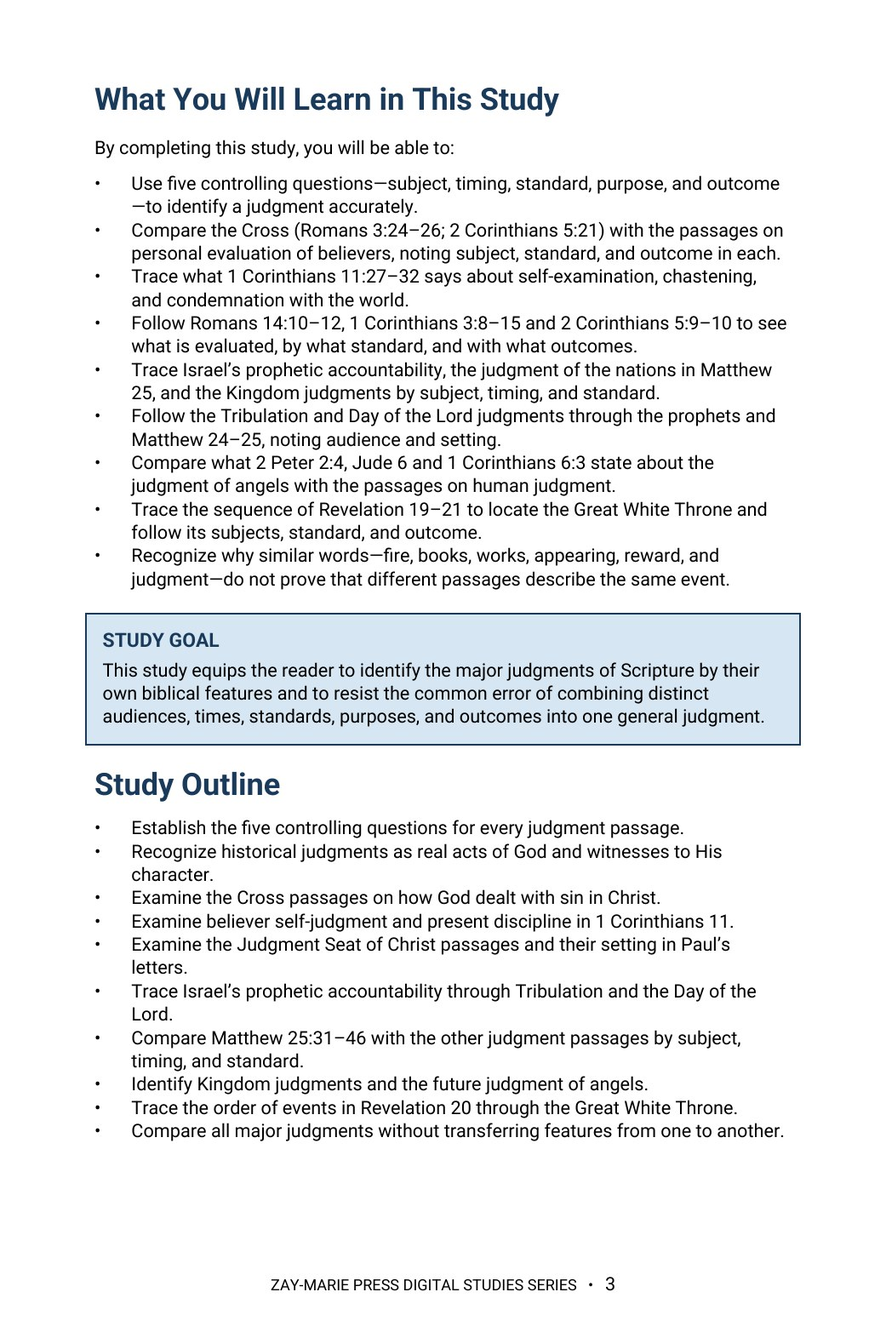
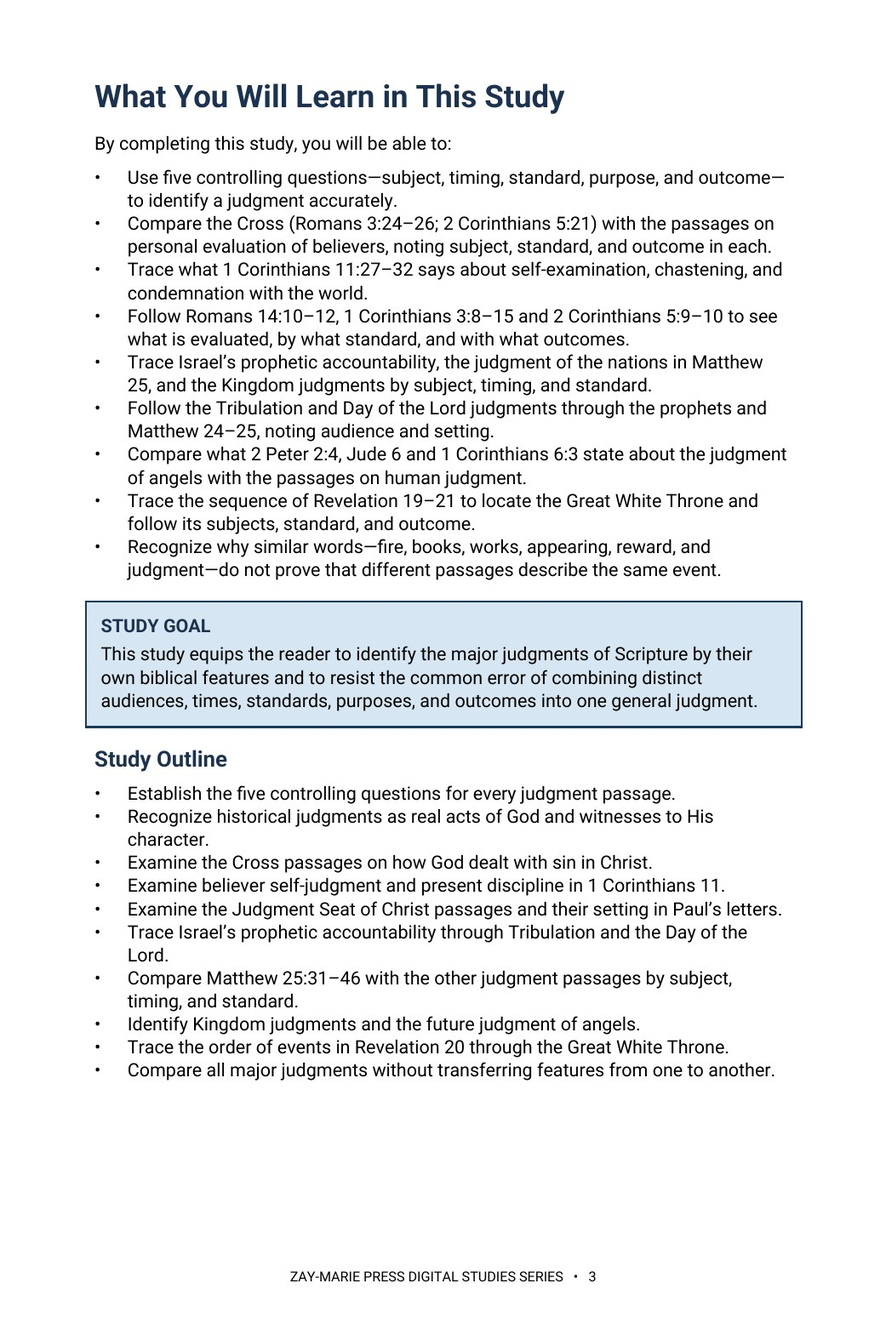
Study 31: retrofit website step (18 pages, 10 pt rebuild, previews 2/3/5, trackers v1.41/v1.135)
Claude-Session: https://claude.ai/code/session_01KcENxFzE91mCRyTPWhcwnE

Changed region(s): [[0.0922, 0.0615, 0.9222, 0.8604], [0.3074, 0.9526, 0.6455, 0.9834]]

diff --git a/study-31-the-judgments-of-scripture.html b/study-31-the-judgments-of-scripture.html
@@ -2,12 +2,12 @@
 <html lang="en"><head><meta charset="utf-8"><meta name="viewport" content="width=device-width,initial-scale=1"><title>The Judgments of Scripture | Zay-Marie Press</title><meta name="description" content="Distinguish the major judgments of Scripture by their subjects, timing, standards, purposes, and outcomes."><link rel="stylesheet" href="styles.css?v=20260928-8"><link rel="icon" type="image/png" href="assets/zay-marie-press-favicon.png"><style>
 .study-detail-page{background:#fff;color:#252525}.detail-hero{background:linear-gradient(135deg,#f8f5ec,#e3ece2);padding:58px 0}.detail-hero-grid{display:grid;grid-template-columns:minmax(250px,.72fr) minmax(0,1.28fr);gap:58px;align-items:center}.detail-cover{max-width:390px;margin:auto}.detail-cover img{display:block;width:100%;height:auto;box-shadow:0 14px 36px rgba(8,45,69,.18)}.detail-hero h1{font-size:clamp(2.7rem,5vw,4.7rem);line-height:1.02;margin:8px 0 10px;color:#143823}.detail-subtitle{font-family:Georgia,serif;font-size:1.35rem;font-weight:700;color:#082d45;margin:0 0 7px}.detail-kicker{font-family:Georgia,serif;font-style:italic;font-size:1.05rem;color:#4a4a44;margin:0 0 22px}.detail-copy{font-size:1.08rem;line-height:1.65;max-width:760px}.detail-buyline{display:flex;align-items:center;gap:18px;flex-wrap:wrap;margin-top:25px}.detail-price{font-family:Georgia,serif;font-size:2rem;font-weight:700;color:#143823}.detail-format,.preview-card .page-no{font-family:Arial,sans-serif;font-size:.76rem;font-weight:700;letter-spacing:.1em;text-transform:uppercase;color:#176b3a}.detail-button{display:inline-block;background:#176b3a;color:#fff;padding:13px 22px;font-family:Arial,sans-serif;font-size:.8rem;font-weight:700;letter-spacing:.07em;text-transform:uppercase}.detail-button.pending{opacity:.72;cursor:default}.detail-section{padding:66px 0}.detail-section.soft{background:#f6f7f2}.detail-section.cream{background:#faf8f2}.detail-section h2{color:#143823;margin:6px 0 18px;font-size:clamp(2rem,3.4vw,3rem)}.detail-section .lead{max-width:920px;font-size:1.1rem;line-height:1.62}.study-distinction{max-width:920px;margin-top:28px;margin-bottom:28px;padding:26px 28px;background:#fff;border:1px solid #d8d1bf;border-left:4px solid #b8871c}.study-distinction h3{margin:0 0 10px;color:#143823}.study-distinction p{margin:0 0 14px;line-height:1.62}.study-distinction a{font-family:Arial,sans-serif;font-weight:700;color:#176b3a;text-decoration:none}.study-points{display:grid;grid-template-columns:repeat(3,1fr);gap:18px;margin-top:28px;margin-bottom:28px}.study-point,.scripture-card,.preview-card,.include-item{background:#fff;border:1px solid var(--line);text-align:left}.study-point{border-top:3px solid #176b3a;padding:22px}.study-point h3{color:#143823;margin:0 0 8px;font-size:1.2rem}.study-point p,.scripture-card p,.preview-card p,.include-item p{margin:0;line-height:1.55}.scripture-grid{display:grid;grid-template-columns:repeat(4,1fr);gap:14px;margin-top:24px;margin-bottom:24px}.scripture-card{padding:22px 20px;color:#143823}.scripture-card h3{margin:0 0 9px;font-family:Georgia,serif;font-size:1rem;line-height:1.35}.scripture-card p{font-size:.94rem;color:#45453f}.excerpt{max-width:900px;margin:28px auto;border-left:4px solid #b8871c;padding:10px 0 10px 28px}.excerpt blockquote{font-family:Georgia,serif;font-size:clamp(1.45rem,2.5vw,2rem);line-height:1.45;color:#143823;margin:0 0 16px}.excerpt p{line-height:1.6;margin:0}.preview-grid{display:grid;grid-template-columns:repeat(2,1fr);gap:20px;margin-top:28px;margin-bottom:28px}.preview-card{padding:18px;min-height:210px;box-shadow:0 7px 20px rgba(20,40,25,.05)}.preview-image-link{display:block;margin:0 0 18px}.preview-image-link img{display:block;width:100%;height:auto;border:1px solid #d8d1bf;box-shadow:0 8px 22px rgba(20,40,25,.1);transition:transform .18s ease,box-shadow .18s ease}.preview-image-link:hover img{transform:translateY(-2px);box-shadow:0 11px 28px rgba(20,40,25,.16)}.preview-card h3{color:#143823;margin:8px 0 10px}.preview-instruction{margin:10px 0 0;font-family:Arial,sans-serif;font-size:.78rem;letter-spacing:.04em;color:#5b5b55}.includes-grid{display:grid;grid-template-columns:repeat(4,1fr);gap:14px;margin-top:26px}.include-item{padding:22px 20px;color:#143823}.include-item h3{margin:0 0 9px;font-family:Arial,sans-serif;font-size:.86rem;line-height:1.35;letter-spacing:.02em}.include-item p{font-size:.94rem;color:#45453f}.final-buy{background:#082d45;color:#fff;border-top:4px solid #b8871c;padding:42px 48px;display:grid;grid-template-columns:1fr auto;gap:36px;align-items:center}.final-buy .eyebrow,.final-buy h2,.final-buy .detail-price{color:#fff}.final-buy h2{margin:7px 0 6px}.final-buy p{margin:0}.final-offer{text-align:center}.back-link{display:inline-block;margin-top:18px;color:#143823;font-family:Arial,sans-serif;font-weight:700;text-decoration:none}.preview-lightbox{position:fixed;inset:0;z-index:10000;display:none;align-items:flex-start;justify-content:center;background:rgba(8,22,16,.88);padding:24px;overflow:auto}.preview-lightbox.open{display:flex}.preview-lightbox img{display:block;width:auto;height:auto;max-width:none;box-shadow:0 18px 55px rgba(0,0,0,.4);background:#fff}.preview-lightbox-close{position:fixed;top:18px;right:24px;z-index:10001;width:46px;height:46px;border:1px solid rgba(255,255,255,.65);border-radius:50%;background:rgba(0,0,0,.55);color:#fff;font:32px/1 Arial,sans-serif;cursor:pointer}@media(max-width:900px){.detail-hero-grid{grid-template-columns:1fr;gap:34px}.detail-cover{max-width:330px}.study-points{grid-template-columns:repeat(2,1fr)}.scripture-grid,.includes-grid{grid-template-columns:repeat(2,1fr)}.preview-grid,.final-buy{grid-template-columns:1fr}.final-offer{text-align:left}}@media(max-width:560px){.detail-hero{padding:42px 0}.detail-section{padding:50px 0}.study-points,.scripture-grid,.includes-grid{grid-template-columns:1fr}.final-buy{padding:32px 24px}.detail-buyline{align-items:flex-start;flex-direction:column;gap:8px}.preview-lightbox{padding:58px 10px 24px}.preview-lightbox img{width:100%;max-width:100%;height:auto}}</style></head><body class="study-detail-page">
 <header class="site-header"><div class="wrap nav"><a class="logo" href="index.html" aria-label="Zay-Marie Press home"><img src="assets/zay-marie-press-logo-hq.png" alt="Zay-Marie Press" width="420" height="238"></a><button class="menu-toggle" type="button" aria-expanded="false" aria-controls="primary-nav">MENU</button><nav aria-label="Primary navigation" class="primary-nav" id="primary-nav"><a href="index.html">HOME</a><a href="books.html">BOOKS</a><a href="series.html">SERIES</a><a class="active" aria-current="page" href="digital-studies.html">DIGITAL STUDIES</a><a href="biblical-hermeneutics-course.html">COURSE</a><a href="about.html">ABOUT</a><a href="resources.html">RESOURCES</a><a href="contact.html">CONTACT</a></nav></div></header><main>
-<section class="detail-hero"><div class="wrap detail-hero-grid"><div class="detail-cover"><picture><source srcset="assets/study-31-cover.webp" type="image/webp"><img src="assets/study-31-cover.jpg" alt="The Judgments of Scripture - Study 31 cover"></picture></div><div><div class="eyebrow">STUDY 31 · DIGITAL STUDY</div><h1>The Judgments of Scripture</h1><p class="detail-subtitle">Their Subjects, Timing, Standards, Purposes, and Outcomes</p><p class="detail-kicker">A comparative biblical study designed to keep distinct judgments distinct</p><p class="detail-copy">Scripture presents many acts and occasions of divine judgment, but it does not combine them into one undifferentiated event. This study supplies a clear framework for identifying who or what is judged, when the judgment occurs, the governing standard, its purpose, and its outcome.</p><p class="detail-copy">Compare historical judgments, the Cross, believer self-judgment and discipline, the Judgment Seat of Christ, Israel’s prophetic accountability, the nations, angels, Kingdom judgments, and the Great White Throne without transferring features from one passage to another.</p><div class="detail-buyline"><span class="detail-price">$5.99</span><span class="detail-format">Digital PDF · 19 Pages</span><span class="detail-button pending" aria-disabled="true">Checkout Coming Soon</span></div></div></div></section>
+<section class="detail-hero"><div class="wrap detail-hero-grid"><div class="detail-cover"><picture><source srcset="assets/study-31-cover.webp" type="image/webp"><img src="assets/study-31-cover.jpg" alt="The Judgments of Scripture - Study 31 cover"></picture></div><div><div class="eyebrow">STUDY 31 · DIGITAL STUDY</div><h1>The Judgments of Scripture</h1><p class="detail-subtitle">Their Subjects, Timing, Standards, Purposes, and Outcomes</p><p class="detail-kicker">A comparative biblical study designed to keep distinct judgments distinct</p><p class="detail-copy">Scripture presents many acts and occasions of divine judgment, but it does not combine them into one undifferentiated event. This study supplies a clear method for identifying who or what is judged, when the judgment occurs, the governing standard, its purpose, and its outcome.</p><p class="detail-copy">Compare historical judgments, the Cross, believer self-judgment and discipline, the Judgment Seat of Christ, Israel’s prophetic accountability, the nations, angels, Kingdom judgments, and the Great White Throne without transferring features from one passage to another.</p><div class="detail-buyline"><span class="detail-price">$5.99</span><span class="detail-format">Digital PDF · 18 Pages</span><span class="detail-button pending" aria-disabled="true">Checkout Coming Soon</span></div></div></div></section>
 <section class="detail-section"><div class="wrap"><div class="eyebrow">ABOUT THIS STUDY</div><h2>Why Must the Judgments Be Distinguished?</h2><p class="lead">The Judge is always righteous, but Scripture assigns different judgments to different subjects, times, standards, purposes, and outcomes. A judgment of living nations at the return of the Son of Man is not the final judgment of the dead after the thousand years. An evaluation for reward or loss is not a trial to determine whether Christ’s finished work was sufficient.</p><p class="lead">This study organizes the major judgment complexes of Scripture so readers can recognize genuine similarities without collapsing distinct events, audiences, or divine purposes.</p><p class="lead">This is not a study of crowns and rewards in their own passages, which Study 33 examines directly, nor of Paul’s own Day-of-Christ language, which Study 8 defines on its own terms, nor of the believer’s security under grace, which Study 46 argues from a different set of texts. Its task is broader: to classify every major judgment complex in Scripture by subject, time, standard, and outcome, so that no two of them are collapsed into a single undifferentiated “judgment.”</p><div class="study-distinction"><h3>How These Studies Relate</h3><p>Study 31 classifies Scripture’s judgments by their subjects, timing, standards, purposes, and outcomes.</p><p><a href="study-33-the-crowns-of-scripture.html">Study 33 — The Crowns of Scripture</a> Examine crowns and rewards in their own passages; this helps locate reward language within the right evaluation instead of treating every crown as salvation or condemnation.</p><p><a href="study-08-the-day-of-christ.html">Study 8 — The Day of Christ</a> Read Paul’s Day-of-Christ expressions before attaching an entire judgment scheme to them; the distinction keeps explicit wording and related future teaching in proper relation.</p><p><a href="study-46-secure-in-christ.html">Study 46 — Secure in Christ</a> See how the distinction between a lost reward and a lost standing, drawn here from 1 Corinthians 3:11–15 and 2 Timothy 2:12, secures the believer’s standing while keeping reward in its own place.</p><p class="connection-guide-link"><a href="study-connections.html#study-31">Explore the full connection guide for Study 31 →</a></p></div><div class="cross-strand-note"><p class="cross-strand-label">FROM THE PARABLES STRAND</p><p>The Sheep and the Goats narrates one of the judgments this study classifies — read it to see that judgment in its own setting.</p><p><a href="parable-31-the-sheep-and-the-goats.html">The Sheep and the Goats</a></p></div></div></section>
 <section class="detail-section soft"><div class="wrap"><div class="eyebrow">WHAT YOU’LL STUDY</div><h2>Use Five Questions to Identify Every Judgment</h2><div class="study-points"><div class="study-point"><h3>Subject</h3><p>Identify who or what is being judged before drawing conclusions from the passage.</p></div><div class="study-point"><h3>Timing</h3><p>Place each judgment within its stated historical, prophetic, or Mystery setting.</p></div><div class="study-point"><h3>Standard</h3><p>Determine the revealed measure by which the judgment is administered.</p></div><div class="study-point"><h3>Purpose</h3><p>Ask what God accomplishes through the judgment in its own context.</p></div><div class="study-point"><h3>Outcome</h3><p>Trace the sentence, reward, loss, discipline, exclusion, or final state that follows.</p></div><div class="study-point"><h3>Programmatic Setting</h3><p>Place each judgment passage within Prophecy or Mystery by the subject, timing, and standard the text states.</p></div></div></div></section>
 <section class="detail-section cream"><div class="wrap"><div class="eyebrow">KEY SCRIPTURES</div><h2>Compare the Major Judgment Passages</h2><div class="scripture-grid"><div class="scripture-card"><h3>Romans 3:21–26</h3><p>God’s righteousness displayed at the Cross, where sin was judged in Christ.</p></div><div class="scripture-card"><h3>1 Corinthians 3:10–15</h3><p>The believer’s work tested for reward or loss while salvation remains secure.</p></div><div class="scripture-card"><h3>2 Corinthians 5:10</h3><p>The Body’s future appearance before the Judgment Seat of Christ.</p></div><div class="scripture-card"><h3>Matthew 25:31–46</h3><p>Living nations judged when the Son of Man comes in glory.</p></div><div class="scripture-card"><h3>Daniel 7 and 12</h3><p>Prophetic judgment, resurrection, and Kingdom accountability.</p></div><div class="scripture-card"><h3>1 Corinthians 6:2–3</h3><p>The future judgment of the world and angels.</p></div><div class="scripture-card"><h3>Revelation 20:11–15</h3><p>The Great White Throne after the thousand years.</p></div><div class="scripture-card"><h3>Romans 8:1</h3><p>No condemnation for those who are in Christ Jesus.</p></div></div></div></section>
 <section class="detail-section"><div class="wrap"><div class="eyebrow">FROM THE STUDY</div><h2>Similar Language Does Not Establish an Identical Judgment</h2><div class="excerpt"><blockquote>“Never identify a judgment by one shared word alone.”</blockquote><p>Fire, books, works, appearing, reward, and judgment may occur in different passages without making those passages one event. The immediate context and programmatic setting establish whose accountability is in view.</p></div></div></section>
 <section class="detail-section soft"><div class="wrap"><div class="eyebrow">A LOOK INSIDE</div><h2>Preview the Study Before You Purchase</h2><p class="preview-instruction">Click any page to enlarge it for reading.</p><div class="preview-grid"><div class="preview-card"><a class="preview-image-link" data-preview-lightbox href="assets/study-31-page-2.jpg"><img src="assets/study-31-page-2.jpg" alt="Study 31 interior preview — page 2, table of contents"></a><div class="page-no">Page 2</div><h3>Table of Contents</h3><p>See the full structure of the study, from the introduction through the final synthesis.</p></div><div class="preview-card"><a class="preview-image-link" data-preview-lightbox href="assets/study-31-page-3.jpg"><img src="assets/study-31-page-3.jpg" alt="Study 31 interior preview — page 3, what you will learn and study outline"></a><div class="page-no">Page 3</div><h3>What You Will Learn</h3><p>Begin with the outcomes you will work toward and the passages the study traces, from the Cross to the Great White Throne.</p></div><div class="preview-card"><a class="preview-image-link" data-preview-lightbox href="assets/study-31-page-5.jpg"><img src="assets/study-31-page-5.jpg" alt="Study 31 interior preview — page 5, five controlling questions and classification table"></a><div class="page-no">Page 5</div><h3>The Five Questions</h3><p>See the five controlling questions and the classification table the study applies to every judgment passage.</p></div></div></div></section>
-<section class="detail-section"><div class="wrap"><div class="eyebrow">WHAT’S INCLUDED</div><h2>A Focused Study Built for<br>Understanding and Teaching</h2><div class="includes-grid"><div class="include-item"><h3>19-Page Biblical Study</h3><p>A detailed comparative treatment without collapsing distinct judgment passages.</p></div><div class="include-item"><h3>Ten Teaching Sections</h3><p>Move from historical judgment and the Cross through final judgment.</p></div><div class="include-item"><h3>Five-Question Framework</h3><p>Identify subject, timing, standard, purpose, and outcome in every passage.</p></div><div class="include-item"><h3>Comparative Tables</h3><p>Review the major judgments through clear, high-contrast reference charts.</p></div><div class="include-item"><h3>Scripture-Tracing Exercise</h3><p>Classify central judgment passages using the same diagnostic questions.</p></div><div class="include-item"><h3>Review Questions</h3><p>Test both biblical knowledge and the ability to preserve distinctions.</p></div><div class="include-item"><h3>Teaching Outline</h3><p>A ready framework for presenting the doctrine clearly and responsibly.</p></div><div class="include-item"><h3>Guided Further Study</h3><p>Instructions and grouped passages help readers extend the study independently.</p></div></div></div></section>
-<section class="detail-section cream"><div class="wrap"><div class="final-buy"><div><div class="eyebrow">STUDY 31 · DIGITAL STUDY</div><h2>The Judgments of Scripture</h2><p>Digital PDF · 19 Pages · For personal use</p></div><div class="final-offer"><div class="detail-price">$5.99</div><span class="detail-button pending" aria-disabled="true">Checkout Coming Soon</span></div></div><a class="back-link" href="digital-studies.html">← Back to All Digital Studies</a></div></section><section class="study-method-course-bridge"><div class="wrap"><div class="study-method-course-panel"><div><div class="eyebrow">BUILD THE INTERPRETIVE METHOD</div><h2>Want More Than a Focused Study?</h2><p>Digital Studies examine particular biblical subjects and difficult passages. The 40-lesson Biblical Hermeneutics course teaches a complete, repeatable method for establishing meaning in context, determining proper assignment, and making responsible application.</p></div><a class="btn btn-primary" href="biblical-hermeneutics-course.html">BIBLICAL HERMENEUTICS COURSE</a></div></div></section></main>
+<section class="detail-section"><div class="wrap"><div class="eyebrow">WHAT’S INCLUDED</div><h2>A Focused Study Built for<br>Understanding and Teaching</h2><div class="includes-grid"><div class="include-item"><h3>18-Page Biblical Study</h3><p>A detailed comparative treatment without collapsing distinct judgment passages.</p></div><div class="include-item"><h3>Ten Teaching Sections</h3><p>Move from historical judgment and the Cross through final judgment.</p></div><div class="include-item"><h3>Five-Question Method</h3><p>Identify subject, timing, standard, purpose, and outcome in every passage.</p></div><div class="include-item"><h3>Comparative Tables</h3><p>Review the major judgments through clear, high-contrast reference charts.</p></div><div class="include-item"><h3>Scripture-Tracing Exercise</h3><p>Classify central judgment passages using the same diagnostic questions.</p></div><div class="include-item"><h3>Review Questions</h3><p>Test both biblical knowledge and the ability to preserve distinctions.</p></div><div class="include-item"><h3>Teaching Outline</h3><p>A ready outline for presenting the doctrine clearly and responsibly.</p></div><div class="include-item"><h3>Guided Further Study</h3><p>Instructions and grouped passages help readers extend the study independently.</p></div></div></div></section>
+<section class="detail-section cream"><div class="wrap"><div class="final-buy"><div><div class="eyebrow">STUDY 31 · DIGITAL STUDY</div><h2>The Judgments of Scripture</h2><p>Digital PDF · 18 Pages · For personal use</p></div><div class="final-offer"><div class="detail-price">$5.99</div><span class="detail-button pending" aria-disabled="true">Checkout Coming Soon</span></div></div><a class="back-link" href="digital-studies.html">← Back to All Digital Studies</a></div></section><section class="study-method-course-bridge"><div class="wrap"><div class="study-method-course-panel"><div><div class="eyebrow">BUILD THE INTERPRETIVE METHOD</div><h2>Want More Than a Focused Study?</h2><p>Digital Studies examine particular biblical subjects and difficult passages. The 40-lesson Biblical Hermeneutics course teaches a complete, repeatable method for establishing meaning in context, determining proper assignment, and making responsible application.</p></div><a class="btn btn-primary" href="biblical-hermeneutics-course.html">BIBLICAL HERMENEUTICS COURSE</a></div></div></section></main>
 <div class="preview-lightbox" id="preview-lightbox" role="dialog" aria-modal="true" aria-label="Expanded study preview"><button class="preview-lightbox-close" type="button" aria-label="Close preview">×</button><img id="preview-lightbox-image" alt=""></div><footer class="site-footer"><div class="wrap footer-grid"><div class="footer-about"><h3>Zay-Marie Press</h3><p class="footer-tagline"><em>Where the Bible Means What It Says.</em></p><p>Zay-Marie Press is a Christian theological publisher dedicated to producing doctrinally precise, carefully structured biblical resources that equip pastors, teachers, and serious students with clarity, depth, and Scripture-anchored truth.</p><p><a href="https://zaymariepress.com">zaymariepress.com</a><br><a href="mailto:info@zaymariepress.com">info@zaymariepress.com</a></p></div><div class="footer-column"><h3>Explore</h3><div class="footer-links-stacked"><a href="books.html">Books</a><br><a href="series.html">Series</a><br><a href="biblical-hermeneutics-course.html">Course</a><br><a href="digital-studies.html">Digital Studies</a><br><a href="resources.html">Resources</a><br><a href="bible-book-summaries.html">Bible Book Summaries</a><br><a href="doctrinal-packets.html">Doctrinal Packets</a><br><a href="historical-drift.html">Historical Drift</a><br><a href="about.html">About</a><br><a href="contact.html">Contact</a></div></div><div class="footer-column"><h3>Reader Support</h3><div class="footer-links-stacked"><a href="reader-support.html#faq">FAQ</a><br><a href="reader-support.html#shipping-returns">Shipping &amp; Returns</a><br><a href="reader-support.html#digital-downloads">Digital Downloads</a><br><a href="reader-support.html#contact-support">Contact Support</a></div></div><div class="footer-column"><h3>Acts Overlap</h3><p><strong>Acts Overlap Theology Series</strong></p><p><em>Two Distinct Streams. One Overlap.</em></p><p><a href="series.html">Series Overview</a></p></div></div><div class="wrap footer-bottom">© 2026 Zay-Marie Press. All rights reserved.</div></footer><script src="site.js"></script><script>const lightbox=document.getElementById('preview-lightbox'),lightboxImage=document.getElementById('preview-lightbox-image'),closeLightbox=()=>{lightbox.classList.remove('open');lightboxImage.src='';};document.querySelectorAll('[data-preview-lightbox]').forEach(link=>link.addEventListener('click',event=>{event.preventDefault();lightboxImage.src=link.href;lightboxImage.alt=link.querySelector('img').alt;lightbox.classList.add('open');}));document.querySelector('.preview-lightbox-close').addEventListener('click',closeLightbox);lightbox.addEventListener('click',event=>{if(event.target===lightbox)closeLightbox();});document.addEventListener('keydown',event=>{if(event.key==='Escape')closeLightbox();});</script></body></html>

diff --git a/site.js b/site.js
@@ -62,7 +62,7 @@ const resourceModal=document.querySelector('#resource-modal'), resourceModalTitl
 if(resourceModal&&resourceModalTriggers.length){const closeResourceModal=()=>{resourceModal.hidden=true;document.body.classList.remove('resource-modal-open');lastResourceTrigger?.focus();};resourceModalTriggers.forEach(trigger=>trigger.addEventListener('click',()=>{lastResourceTrigger=trigger;if(resourceModalTitle)resourceModalTitle.textContent=trigger.dataset.title||'Resource';if(resourceModalDescription)resourceModalDescription.textContent=trigger.dataset.description||'';if(resourceModalLink){resourceModalLink.href=trigger.dataset.href||'#';resourceModalLink.textContent=trigger.dataset.linkText||'OPEN RESOURCE';}resourceModal.hidden=false;document.body.classList.add('resource-modal-open');resourceModalClose?.focus();}));resourceModalClose?.addEventListener('click',closeResourceModal);resourceModal.addEventListener('click',e=>{if(e.target===resourceModal)closeResourceModal();});document.addEventListener('keydown',e=>{if(e.key==='Escape'&&!resourceModal.hidden)closeResourceModal();});}
 
 /* Display the verified final-PDF page count at the primary purchase decision point. */
-const digitalStudyPageCounts={1:17,2:14,3:16,4:18,5:16,6:16,7:14,8:13,9:16,10:20,11:15,12:15,13:19,14:15,15:16,16:16,17:18,18:18,19:16,20:16,21:17,22:16,23:14,24:16,25:17,26:16,27:16,28:16,29:19,30:17,31:19,32:16,33:16,34:16,35:16,36:16,37:16,38:16,39:16,40:16,41:16,42:16,43:16,44:16,45:16,46:16,47:16,48:16,49:17,50:16,51:16,52:16,53:16,54:16,55:16,56:16,57:16,58:16,61:16,62:16,63:16,64:16,65:16,66:16,67:16,68:16,69:16,70:16,71:16};
+const digitalStudyPageCounts={1:17,2:14,3:16,4:18,5:16,6:16,7:14,8:13,9:16,10:20,11:15,12:15,13:19,14:15,15:16,16:16,17:18,18:18,19:16,20:16,21:17,22:16,23:14,24:16,25:17,26:16,27:16,28:16,29:19,30:17,31:18,32:16,33:16,34:16,35:16,36:16,37:16,38:16,39:16,40:16,41:16,42:16,43:16,44:16,45:16,46:16,47:16,48:16,49:17,50:16,51:16,52:16,53:16,54:16,55:16,56:16,57:16,58:16,61:16,62:16,63:16,64:16,65:16,66:16,67:16,68:16,69:16,70:16,71:16};
 const digitalStudyMatch=window.location.pathname.match(/\/study-(\d+)-/i);
 const digitalStudyFormat=document.querySelector('.detail-hero .detail-format');
 if(digitalStudyMatch&&digitalStudyFormat){const studyNumber=Number(digitalStudyMatch[1]),pageCount=digitalStudyPageCounts[studyNumber];if(pageCount)digitalStudyFormat.textContent=`Digital PDF · ${pageCount} Pages`;}

diff --git a/controlling-documents/Doctrinal_Upgrade_Retrofit_Plan_v1.41.md b/controlling-documents/Doctrinal_Upgrade_Retrofit_Plan_v1.41.md
@@ -50,6 +50,7 @@ Working tracker for correcting published studies to the Framework/PAM v1.1, Mast
 | 23 The 144,000 | Tier 2 read (Revelation, Body absent, Gentile multitude, Romans 11 passing cite in the diagram, anchors) | DONE 2026-10-02 (v1.36): rebuilt to the Study 52 page geometry (16 → 14 pp, Roboto Regular/Bold). Added the Body-not-in-Revelation line (section 17), Gentile multitude conformed to Rule 14 (section 7), 'Israel remains Israel, and the Body is not Israel' and 'belongs to the Mystery revealed through Paul' (section 18); Romans 11 four boundaries and triad added under the diagram (diagram image unchanged); no anchor needed (Revelation assigned); no internal terms. Third preview is now PDF page 9 (study-23-page-9.jpg). Imprint extra KJV sentence left for Wave 5. |
 | 26 The Seven Churches of Revelation | Tier 2 read (Revelation assigned, Body absent, anchors, internal terms) | DONE 2026-10-02 (v1.37): rebuilt to the Study 52 page geometry (18 → 16 pp, Roboto Regular/Bold). Removed 'The Framework notes', 'The Framework Control Document', 'the Framework’s taxonomy' and the false 'Program Assignment Manual assigns no program to Revelation' line; generic 'framework' removed; hedge replaced by the standing Revelation line (Body absent; Revelation, like Daniel’s 70th week, wholly Israel’s Prophecy Program) in section 14; Philadelphia/Rev 3:10 not a statement about the Body; Colossians anchor added (section 3). Third preview now PDF page 10 (study-26-page-10.jpg). Imprint extra KJV sentence left for Wave 5. |
 | 29 One Taken and the Other Left | Tier 2 read (one taken/left ruling, Day of the Lord, anchors, internal terms) | DONE 2026-10-02 (v1.38; reset to 10 pt body and enforced table spacing in v1.40, 19 pp, site.js 29:19, previews 2, 3, 9): rebuilt to the Study 52 page geometry (16 → 17 pp at 9 pt, Roboto Regular/Bold). Removed 'the Framework’s assignment' (Conclusion) and 'Kingdom framework'; added the Body-not-in-the-Day-of-the-Lord line (section 9), the Matthew 25 nations line (section 7) and the 1 Thessalonians/Philippians reader-facing anchor (section 9). One taken/left reading already conformed (Israel’s Tribulation separation, not a rapture text). Previews 2, 3, 8 re-rendered. TOC check hardened (monotonic page search; Studies 23, 26 re-verified). Imprint extra KJV sentence left for Wave 5. |
+| 31 The Judgments of Scripture | Tier 2 read (Acts 28, Day of the Lord, Revelation, Galatians 3, anchors, internal terms) | DONE 2026-10-02 (v1.41): rebuilt to the Study 52 page geometry at 10 pt body with 10 pt table spacing (19 → 18 pp, Roboto Regular/Bold). Removed 'The Framework assigns … not a PAM assignment' (replaced by a Matthew 25 anchor), 'Acts Overlap framework', 'five-question framework'; Acts 28 'not a transfer'; Body-not-in-the-Day-of-the-Lord and Revelation/Daniel lines (section 6); Matthew 25 nations line (section 7); Galatians 3 standing sentence (section 3); Colossians/2 Timothy and 2 Peter/Jude anchors (sections 5, 8). Page text: 'framework' wording replaced (method / outline). Previews 2, 3, 5 re-rendered. Imprint extra KJV sentence left for Wave 5. |
 | 39 The Church's Relationship to Israel's Scriptures | Abrahamic/covenant participation + overlap sentence | DONE 2026-10-02 (v1.23): interior corrected (16 pp, Roboto). Withdrawn overlap sentence replaced with the standing sentence and Acts 28 'not abolition and not a transfer' added (§9); 'Gentiles participate spiritually' replaced by the standing Galatians 3 sentence (§8) and 'whole/every covenant term' partial-transfer wording tightened (§8, Study Summary, Key Distinctions table); Romans 11 four-point list and triad added (Introduction); 2 Timothy and Philippians anchors converted and a Colossians anchor added. Sections moved down: TOC updated (7 numbers); 16 pp. Website: previews 2, 3, 5 re-rendered at 1041x1565; site.js 39:16 unchanged |
 | 40 Who Is Abraham's Seed? | Gal 3 / Abrahamic participation (core) | DONE 2026-10-02 (v1.22): interior corrected (16 pp, Roboto). Withdrawn overlap sentence replaced with the standing sentence (Introduction); Romans 11 four-point list and triad added (Introduction); the 'Gentiles participate spiritually / Abrahamic heirship, benefit, inheritance, connection' family replaced with the standing Galatians 3 sentence and plain wording (§6, §8, §10, Study Summary, Key Distinctions table); Romans 4 'participate in promise' and Teaching Outline 'share that benefit' reworded. Sections moved down: TOC updated (Conclusion p10, Scripture-Tracing p11, Guided Further Study p16); 16 pp. Website: preview pages 2, 3 and 4 re-rendered; site.js 40:16 unchanged |
 | 52 Sonship and Adoption | Gal 3 / Abrahamic participation | DONE 2026-10-02 (v1.21): interior corrected (16 pp, Roboto). Withdrawn Galatians 3:26–29 'Gentiles participate spiritually / ethnic distinction is kept' wording replaced by the standing Galatians 3 sentence (3.4) and the 'participation in the seed is spiritual' line reworded; Study 40 pointer parenthetical removed; nine 'The Framework does not assign…' anchors and the Hebrews sentence converted to the reader-facing forms; Romans 11 four-point list and triad added (Group 3). Shorter anchors moved sections up a page, so TOC numbers updated (§5 p9, §6 p11, Conclusion p12, etc.); total still 16 pp. Website: page-2 (TOC) preview re-rendered; pages 3 and 5 unchanged |
@@ -124,3 +125,4 @@ Working tracker for correcting published studies to the Framework/PAM v1.1, Mast
 - v1.38 (2026-10-02): Study 29 retrofit complete (see row). Next: Wave 4 remainder (31, 32, 33): DOCX needed from the publisher for each. Open: Titus anchor ruling.
 - v1.39 (2026-10-02): NEW RULE (Master Standard v1.48, rule-synced in CLAUDE.md): body text is 10 pt (was 9 pt) and every table, callout boxes included, has 10 pt of controlled spacing before and after (a paragraph after a table never touches it). Every study rebuilt so far (1, 3, 7, 8, 10, 23, 26, 29 and the others built at 9 pt) must be reset to 10 pt when reopened or in Wave 5, with page counts, TOC pages, previews and site.js following each rebuild; every new rebuild is built at 10 pt from now on. Study 29 rebuilt at 10 pt as review copy v2 (19 pp; website step pending the publisher's approval: site.js 29:19, previews 2/3/8 re-rendered). Wave 5 step-1 check now reports body size and the first paragraph after each table. Next: Wave 4 remainder (31, 32, 33).
 - v1.40 (2026-10-02): Study 29 v2 (10 pt body, table spacing fixed; 19 pp) website step done: site.js 29:19, previews 2, 3 and 9 re-rendered (Luke 17 KJV table now on PDF page 9; study-29-page-8.jpg removed). Next: Wave 4 remainder (31, 32, 33); studies built at 9 pt reset to 10 pt when reopened or in Wave 5.
+- v1.41 (2026-10-02): Study 31 retrofit complete at 10 pt (see row). Next: Wave 4 remainder (32, 33): DOCX needed from the publisher for each. Open: Titus anchor ruling.

diff --git a/CLAUDE.md b/CLAUDE.md
@@ -21,7 +21,7 @@ These are kept in the repo at `controlling-documents/` and are the current versi
 - As of v1.48 (publisher directive, 2026-10-02), §6 sets the **body-text standard at 10 pt** and enforces the table-spacing rule, written into this file in the same pass: body paragraphs, lists, table body text and Table of Contents entries are Roboto Regular 10 pt black (previously 9 pt), at 6 pt after / 0 before / 1.08 line spacing (lists 0 pt after each item, 6 pt after the last); headings (17 pt), callout titles (10 pt bold caps), the "Study Outline" sub-heading (12 pt) and the footer are unchanged. Every table, callout boxes included, has 10 pt of controlled spacing before and after: the paragraph before a table has at least 10 pt space-after and the paragraph after it at least 10 pt space-before, so body text never touches a table (the defect was seen on Study 29, under a KJV table). Studies built at 9 pt (1, 3, 7, 8, 10, 23, 26, 29 and the other rebuilt studies) are reset to 10 pt when reopened or in the Wave 5 sweep, and page counts, TOC pages, previews and `site.js` follow each rebuild. In every study check (Step 1) report the body size and measure the first paragraph after each table. Study 29 is the first study rebuilt to it.
 **`controlling-documents/Digital_Studies_Relationship_Map_v1.39.md`** — records each study's distinct subject, its related studies, the eight priced six-study collections, the Paul's Missionary Journeys cross-reference map, and the five primary catalog categories (currently version 1.39, covers Studies 1–71; update it as new studies publish, bump the version number, rename the file to match, and log the change in its own version-history table — mirroring the Master Standard's `_vX.Y` filename convention). Check a proposed topic against it before recommending or writing a new study. (2026-09-28: the file was missing from this repo despite this note referencing it; replaced from the publisher's copy and bumped v1.15→v1.25 in the same pass. If this note ever again points to a version not present under `controlling-documents/`, ask the publisher for a copy rather than proceeding without the check.)
 - **`controlling-documents/Digital_Studies_Category_Standard_v1.1.md`** — FINAL and binding (publisher, 2026-10-01): the rules for the five primary catalog categories (Foundations, Israel & Prophecy, Body of Christ, Passages, Doctrinal Themes), the ordered decision procedure for new studies, the precedents, all 71 fixed assignments, and the cover-label form for each category. Read it before placing any card or cover label. Do not ask the publisher where a study belongs; apply the procedure and state the result. Only the publisher changes a ruling; then bump this Standard's version and filename, re-letter the cover, and update the Relationship Map.
-- **`controlling-documents/Doctrinal_Upgrade_Retrofit_Plan_v1.40.md`** — working tracker for retrofitting Studies 1–59 to the 2026-10-02 doctrinal upgrade (Framework/PAM v1.1, Master Standard v1.40, Rules 7–17): withdrawn-wording search keys, impact tiers, waves and the per-study method. Read it before continuing the retrofit in any session; update status, bump the version and rename the file as work proceeds.
+- **`controlling-documents/Doctrinal_Upgrade_Retrofit_Plan_v1.41.md`** — working tracker for retrofitting Studies 1–59 to the 2026-10-02 doctrinal upgrade (Framework/PAM v1.1, Master Standard v1.40, Rules 7–17): withdrawn-wording search keys, impact tiers, waves and the per-study method. Read it before continuing the retrofit in any session; update status, bump the version and rename the file as work proceeds.
 - **`controlling-documents/Doctrinal_Packet_Standard_v0.3.md`** — Doctrinal Packet Standard (DRAFT; §7 approved). Governs the separate Doctrinal Packets product strand (5-page interpretive PDFs per Bible book — a print-friendly cover as page 1 plus 4 content pages, $2.99, KJV, pilot: Genesis, live at `packet-genesis.html`, hub `doctrinal-packets.html`; site pages say "5 Pages", cover styles live in `packets.css`, Old Testament blue and New Testament soft pale green, hub listed in Bible order). **Preview rule (publisher directive, 2026-09-29, packets only):** previews show about one page's worth in two cropped views (top of page 1 through the anchor texts; the chart section) — never the exegesis, architecture, Mystery contrast, logic chain, outline, or closing. Master Standard §16/§17 still govern Digital Studies. Bump the version and rename the file as the Standard is finalized.
 - **`controlling-documents/Preview_Page_Spoiler_Retrofit_Audit_v1.4.md`** — working tracker for the Studies 1–60 preview-page conclusion-spoiler retrofit (see the section below). Read it before continuing that audit in any session; update its status fields and changelog, bump the version, and rename the file to match as the audit proceeds — same `_vX.Y` convention as the other controlling documents. As of v1.1, the website-side half was DONE: all 60 studies' "What You'll Study" text was judged against the rule (methodology documented in the file) and 22 points across 11 studies were rewritten and pushed; an unrelated Study 22 content bug (Study 21's content had leaked into it) was also found and fixed. As of v1.2, the publisher supplied Studies 1–60's interior production PDFs and the interior-PDF half was also surveyed (read-only): 10 studies (37, 41, 45, 47, 48, 49, 51, 52, 53, 54) were found to have at least one interior "What You Will Learn" violation, 50 studies were confirmed compliant, and the orphaned `assets/study-45-sanctification-under-grace.docx` (removed from the repo per the publisher in v1.0) was confirmed word-for-word identical to Study 45's actual production interior PDF content. As of v1.3, the publisher supplied editable DOCX sources for all 10 violating studies; all 15 violating points were rewritten and approved, delivered as corrected final PDFs, and — along the way — a second defect was found and fixed (Studies 47 and 48's source DOCX still had an unintegrated cover placeholder despite both being long-published live with real covers; fixed by inserting the existing approved cover art). The website's "What You Will Learn" preview image (`study-NN-page-3.jpg`) was regenerated from the corrected content for all 10 studies and pushed to `main` (commit `cea1859`), verified against a fresh clone. **The website side of this audit is now fully compliant for all 60 studies.** Outstanding: the publisher's purchasable interior PDF files themselves have corrected versions delivered, but distribution to existing purchasers was decided by the publisher on 2026-09-29: silent swap of the files behind the existing downloads, no reissue notice (recorded in the v1.4 changelog entry; the product files are not in this repo).
 

diff --git a/controlling-documents/Digital_Studies_PAM_Audit_v1.135.md b/controlling-documents/Digital_Studies_PAM_Audit_v1.135.md
@@ -364,3 +364,4 @@ Study 15 PDF not yet supplied. Typography: none of Studies 2, 3, 6, 8 is in EB G
 - v1.132 (2026-10-02): Study 29 retrofitted: Framework wording removed, Day-of-the-Lord, Matthew 25 nations and 1 Thessalonians/Philippians anchor lines added; rebuilt to the standard page geometry (17 pp); previews 2, 3, 8 re-rendered.
 - v1.133 (2026-10-02): Master Standard v1.48 / CLAUDE.md: body text 10 pt and enforced 10 pt table spacing (first seen as body text touching a KJV table on Study 29). Study 29 review copy v2 built at 10 pt (19 pp); website step pending.
 - v1.134 (2026-10-02): Study 29 v2 live (10 pt body, enforced table spacing; 19 pp); previews 2, 3 and 9; site.js 29:19.
+- v1.135 (2026-10-02): Study 31 retrofitted at 10 pt: Framework/PAM sentence replaced by a Matthew 25 anchor, Acts 28 'not a transfer', Day-of-the-Lord/Revelation/Daniel, Matthew 25 nations, Galatians 3 and four anchor lines added; 18 pp; 'framework' wording removed from the page; previews 2, 3, 5.
